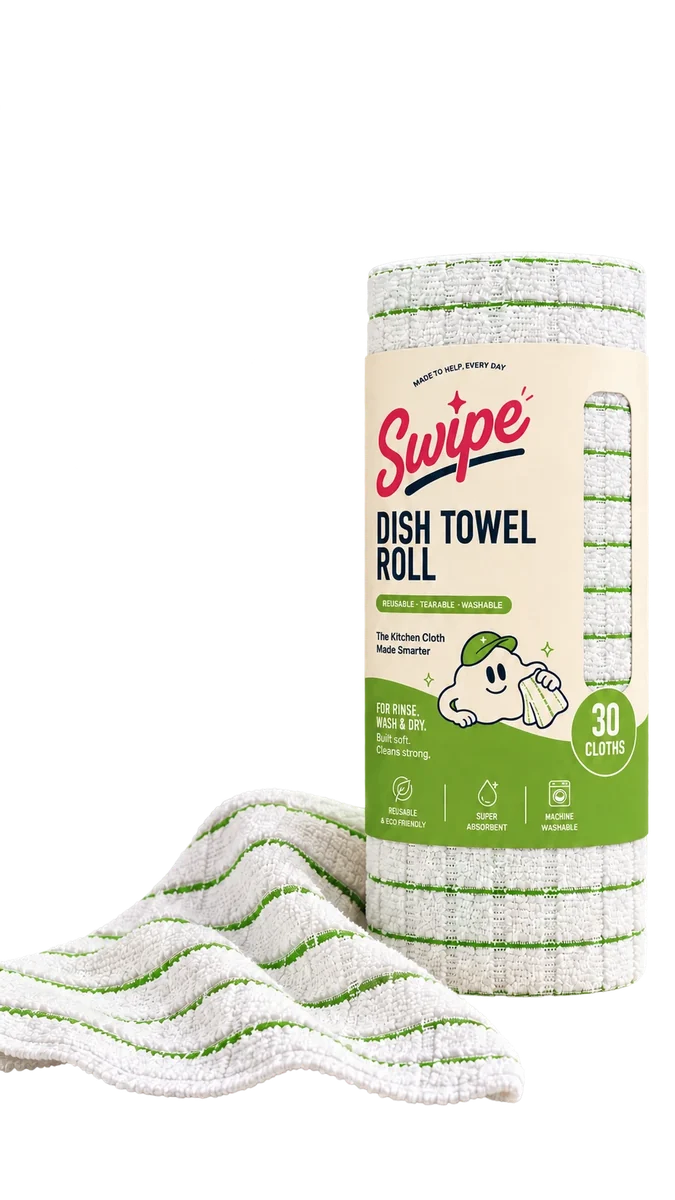
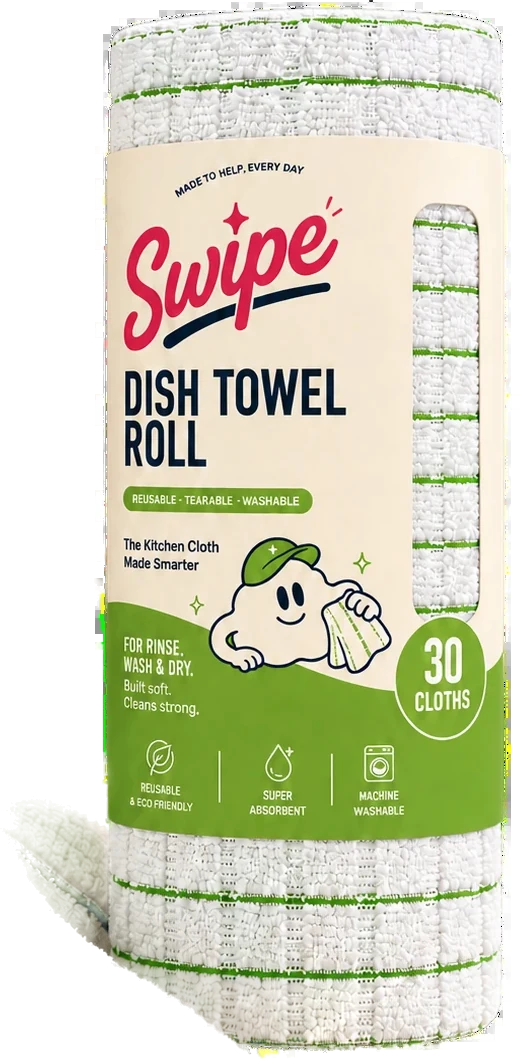
Product section: transparent roll on cream, bigger, rebalanced
- Replace white card with a transparent roll-and-cloth cutout placed
  directly on the cream, cropped and ~50% larger, with a soft ground shadow
- Widen to balanced 1:1 columns, trim vertical padding to reduce empty space
- Kicker 'Meet the roll.'; 'DISH TOWEL ROLL' heading ~25% larger
- Simplify to one benefit row (30 cloths · Tear-off · Washable & reusable)
  and new copy; drop the duplicate pills and benefit icons

Claude-Session: https://claude.ai/code/session_01ExPnsBd3kGS58APQmfEqBT

diff --git a/index.html b/index.html
@@ -397,27 +397,26 @@
       /* ---------------- product section ---------------- */
       .product { background: var(--cream); border-top: 2px dashed rgba(19, 28, 69, 0.14); }
       .product__inner {
-        max-width: 1120px;
+        max-width: 1240px;
         margin: 0 auto;
         display: grid;
-        grid-template-columns: minmax(0, 0.9fr) minmax(0, 1.1fr);
+        grid-template-columns: minmax(0, 1fr) minmax(0, 1fr);
         align-items: center;
-        gap: clamp(24px, 5vw, 64px);
-        padding: clamp(48px, 7vw, 90px) var(--pad-x);
+        gap: clamp(20px, 4vw, 60px);
+        padding: clamp(28px, 4vw, 56px) var(--pad-x);
       }
-      .product__media { display: grid; justify-items: center; gap: 18px; }
-      .product__card {
-        background: var(--white);
-        border-radius: 22px;
-        padding: 18px;
-        box-shadow: 0 20px 44px rgba(12, 19, 50, 0.14);
-        width: 100%;
-        max-width: 360px;
+      .product__media { display: grid; justify-items: center; gap: 22px; }
+      /* transparent roll-and-cloth, placed directly on the cream */
+      .product__img {
+        height: clamp(360px, 54vh, 580px);
+        width: auto;
+        max-width: 100%;
+        display: block;
+        filter: drop-shadow(0 26px 30px rgba(12, 19, 50, 0.18));
       }
-      .product__img { width: 100%; height: auto; display: block; }
       .product__swatches { display: flex; gap: 14px; align-items: center; justify-content: center; }
       .swatch {
-        width: 34px; height: 34px; border-radius: 50%;
+        width: 36px; height: 36px; border-radius: 50%;
         background: var(--sw);
         box-shadow: 0 0 0 3px var(--cream), 0 0 0 5px transparent;
         position: relative;
@@ -437,23 +436,34 @@
 
       .product__kicker {
         font-family: var(--font-display); text-transform: uppercase;
-        letter-spacing: 0.18em; font-size: 0.82rem; color: var(--pink);
+        letter-spacing: 0.16em; font-size: clamp(0.9rem, 1.5vw, 1.1rem); color: var(--pink);
       }
-      .product__name { font-size: clamp(2.2rem, 5.5vw, 3.6rem); color: var(--navy); margin-top: 6px; }
-      .product__pills { display: flex; flex-wrap: wrap; gap: 8px; margin: 14px 0; }
-      .product__pills span {
-        font-family: var(--font-display); text-transform: uppercase; font-size: 0.75rem;
-        letter-spacing: 0.04em; color: var(--navy);
-        background: var(--green); padding: 7px 14px 5px; border-radius: 999px;
+      .product__name {
+        font-size: clamp(2.7rem, 7vw, 4.6rem);
+        line-height: 0.9;
+        color: var(--navy);
+        margin: 4px 0 18px;
       }
-      .product__desc { font-weight: 600; font-size: clamp(1rem, 1.5vw, 1.15rem); color: rgba(19, 28, 69, 0.8); max-width: 46ch; }
-      .product__features { list-style: none; display: flex; flex-wrap: wrap; gap: 14px 26px; margin: 20px 0 24px; }
-      .product__features li { display: flex; align-items: center; gap: 9px; font-weight: 700; font-size: 0.92rem; color: var(--navy); }
-      .product__features svg { width: 26px; height: 26px; color: var(--green-deep); flex: 0 0 auto; }
+      /* one clear benefit row */
+      .product__bens {
+        display: flex; flex-wrap: wrap; align-items: center; gap: 6px 12px;
+        font-family: var(--font-display); text-transform: uppercase; letter-spacing: 0.02em;
+        color: var(--navy); font-size: clamp(0.88rem, 1.3vw, 1.05rem);
+        margin-bottom: 16px;
+      }
+      .product__bens span { white-space: nowrap; }
+      .product__bens span:not(:last-child)::after {
+        content: '•'; color: var(--green-deep); margin-left: 12px;
+      }
+      .product__desc {
+        font-weight: 600; font-size: clamp(1.02rem, 1.5vw, 1.2rem);
+        color: rgba(19, 28, 69, 0.8); max-width: 42ch; margin-bottom: 26px;
+      }
 
       @media (max-width: 860px) {
-        .product__inner { grid-template-columns: 1fr; gap: 28px; }
+        .product__inner { grid-template-columns: 1fr; gap: 22px; }
         .product__media { order: -1; }
+        .product__img { height: clamp(300px, 44vh, 440px); }
       }
 
       /* ---------------- entrance + subtle cloth movement ---------------- */
@@ -584,15 +594,13 @@
       <section class="product" id="product">
         <div class="product__inner">
           <div class="product__media">
-            <div class="product__card">
-              <img
-                id="product-img"
-                class="product__img"
-                src="assets/product-green.webp"
-                width="675" height="1200"
-                alt="Swipe Dish Towel Roll — green"
-              />
-            </div>
+            <img
+              id="product-img"
+              class="product__img"
+              src="assets/product-green.webp"
+              width="519" height="1059"
+              alt="Swipe Dish Towel Roll — green, with a cloth"
+            />
             <div class="product__swatches" role="group" aria-label="Choose a roll color">
               <button
                 class="swatch is-active"
@@ -609,27 +617,16 @@
           </div>
 
           <div class="product__info">
-            <p class="product__kicker">The current drop</p>
+            <p class="product__kicker">Meet the roll.</p>
             <h2 class="display product__name">Dish Towel Roll</h2>
-            <p class="product__pills"><span>Reusable</span><span>Tearable</span><span>Washable</span></p>
-            <p class="product__desc">
-              The kitchen cloth made smarter. For rinse, wash &amp; dry — built soft, cleans strong.
-              30 tear-off cloths per roll.
+            <p class="product__bens">
+              <span>30 cloths</span>
+              <span>Tear-off</span>
+              <span>Washable &amp; reusable</span>
             </p>
-            <ul class="product__features">
-              <li>
-                <svg viewBox="0 0 24 24" fill="none" stroke="currentColor" stroke-width="2" stroke-linecap="round" stroke-linejoin="round" aria-hidden="true"><path d="M20 11a8 8 0 1 0-2.3 6.3"/><path d="M20 5v6h-6"/></svg>
-                Reusable &amp; eco-friendly
-              </li>
-              <li>
-                <svg viewBox="0 0 24 24" fill="none" stroke="currentColor" stroke-width="2" stroke-linecap="round" stroke-linejoin="round" aria-hidden="true"><path d="M12 3C7.5 8.5 5 11.5 5 15a7 7 0 0 0 14 0c0-3.5-2.5-6.5-7-12z"/></svg>
-                Super absorbent
-              </li>
-              <li>
-                <svg viewBox="0 0 24 24" fill="none" stroke="currentColor" stroke-width="2" stroke-linecap="round" stroke-linejoin="round" aria-hidden="true"><rect x="4" y="3" width="16" height="18" rx="2.5"/><circle cx="12" cy="13" r="5"/><path d="M7 6h.01"/></svg>
-                Machine washable
-              </li>
-            </ul>
+            <p class="product__desc">
+              A fresh cloth for everyday messes. Tear one off, use it, wash it, and use it again.
+            </p>
             <button type="button" class="btn btn--pink" data-focus-email>Keep me posted</button>
           </div>
         </div>
